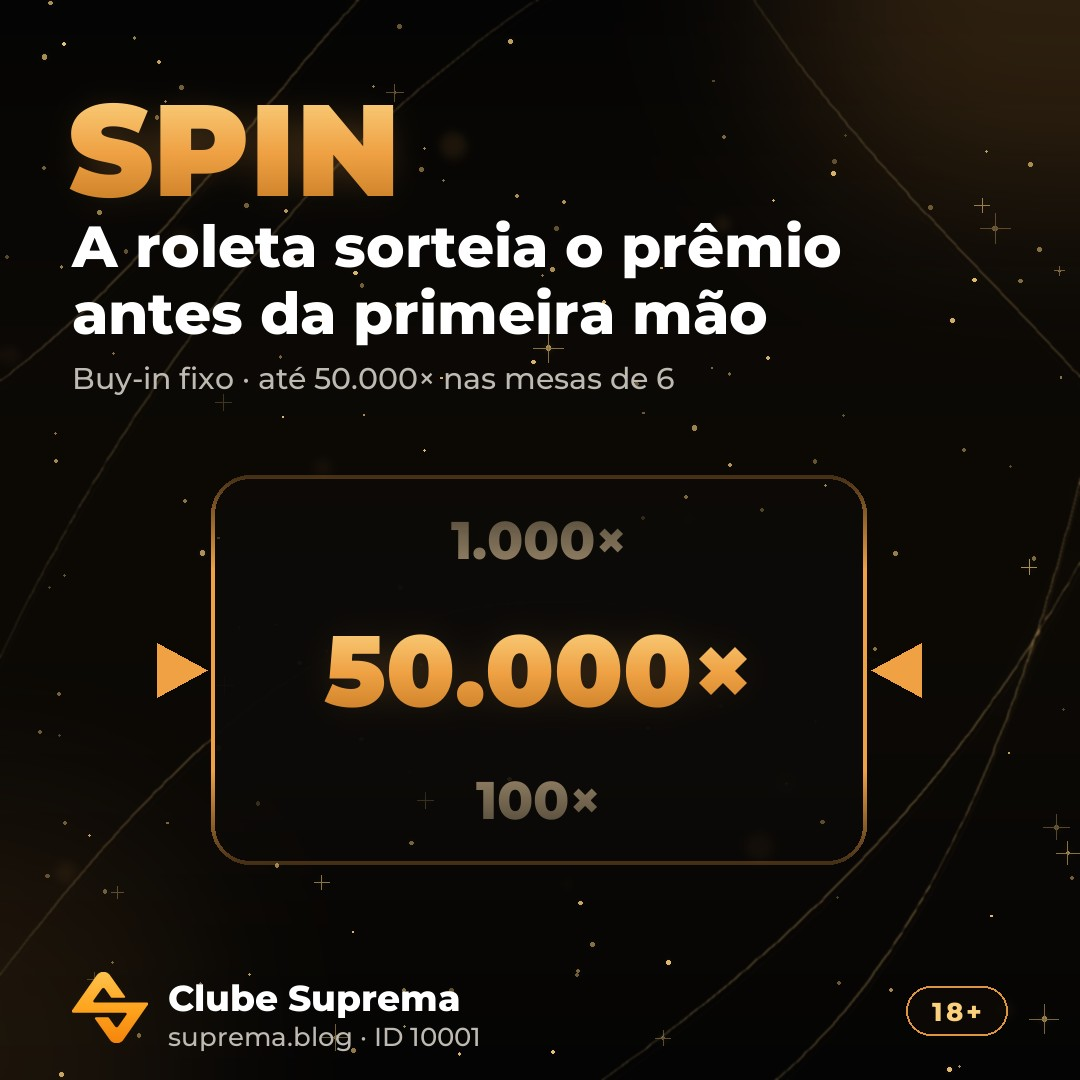
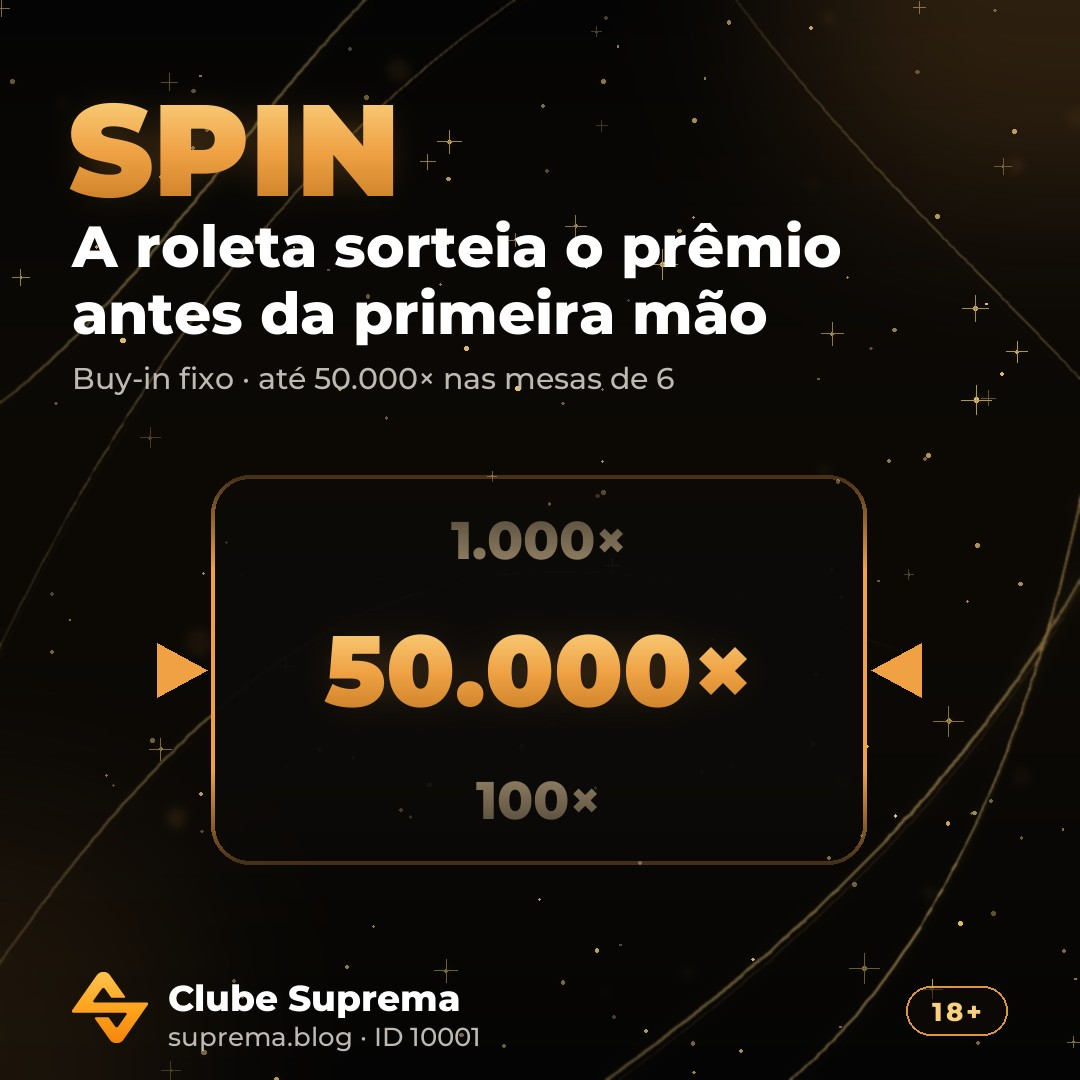
Anúncios: fundo de cada arte fixo pelo número do anúncio
Incluir as variações do Spin no meio da lista mudava a semente dos anúncios seguintes e os brilhos
do fundo de 06 a 09. Agora 01 a 10 usam as sementes da primeira leva (as artes voltaram a ser
idênticas às da campanha) e as variações têm sementes próprias.

diff --git a/tools/imagens/anuncios_clube.py b/tools/imagens/anuncios_clube.py
@@ -322,9 +322,12 @@ def textos_md():
 if __name__ == "__main__":
     sys.stdout.reconfigure(encoding="utf-8")
     so = sys.argv[1] if len(sys.argv) > 1 else ""
-    for i, a in enumerate(ANUNCIOS):
+    for a in ANUNCIOS:
         if so and not a["id"].startswith(so):
             continue
-        gerar(a, seed=11 + i * 7)
+        # O fundo sai do número do anúncio (01 a 10 com as sementes da primeira leva, que já está na campanha);
+        # as variações (05b, 05c…) ganham sementes próprias, para incluir anúncio novo sem mudar os outros.
+        n, letra = int(a["id"][:2]), a["id"][2]
+        gerar(a, seed=11 + (n - 1) * 7 + (1000 + (ord(letra) - 96) * 13 if letra.isalpha() else 0))
         print("ok", a["id"])
     print("ok", os.path.relpath(textos_md(), ROOT))
